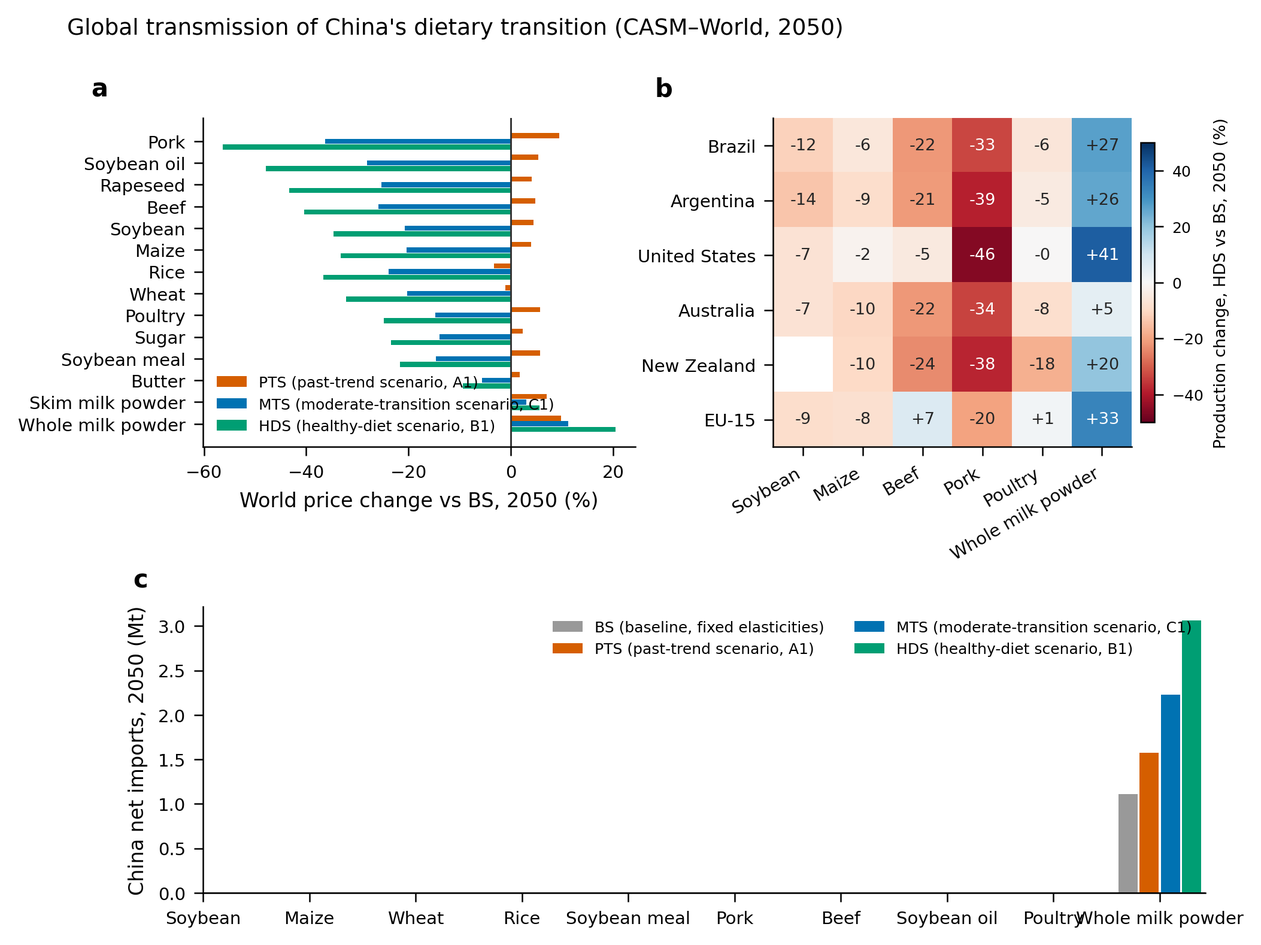
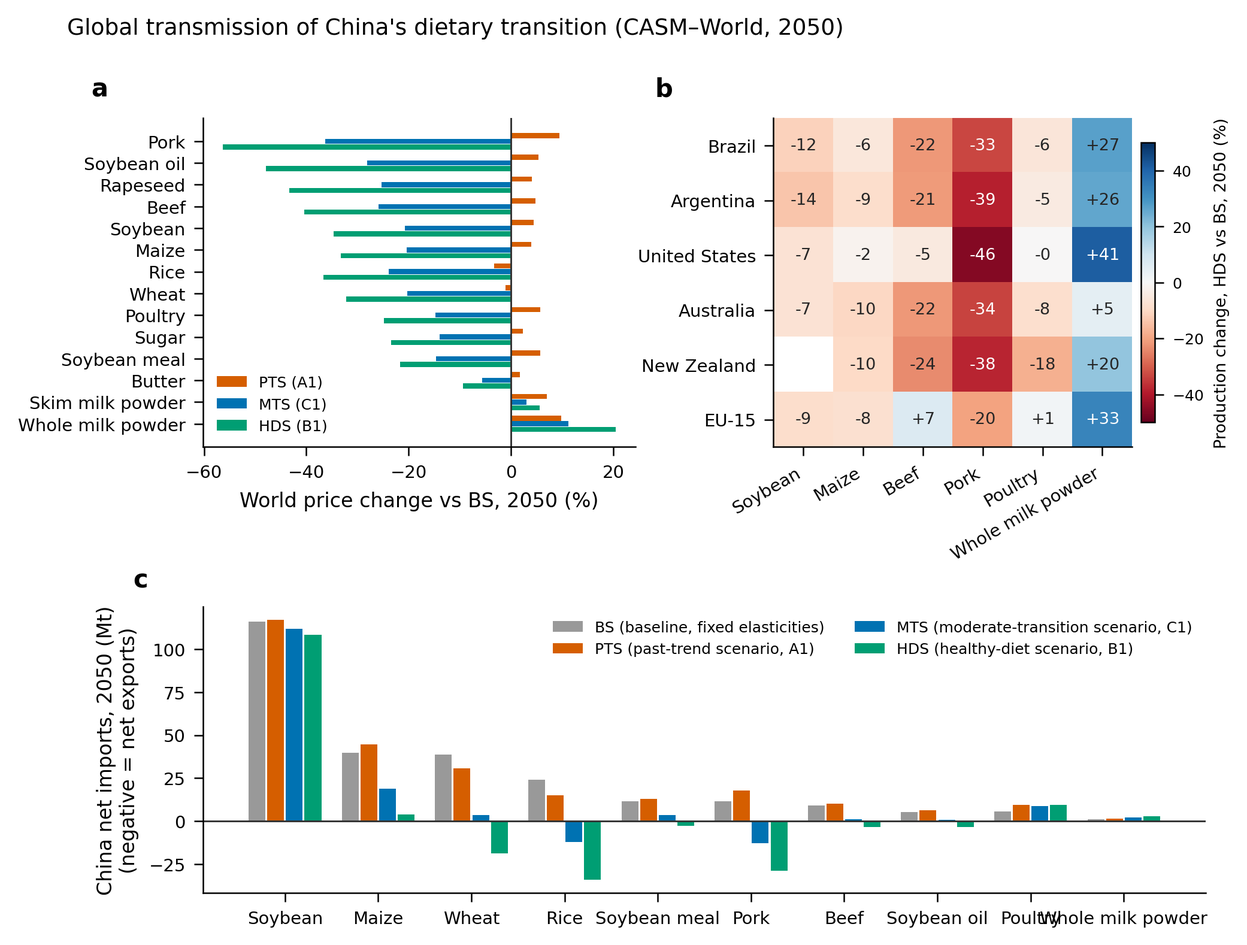
Auto-sync food_demand_2050: 2026-07-07T13:10:02+08:00

diff --git a/food_demand_2050/figures/make_figures.py b/food_demand_2050/figures/make_figures.py
@@ -295,7 +295,8 @@ def fig3():
     h = 0.26
     for k, g in enumerate(["PTS", "MTS", "HDS"]):
         pct = (prf.loc[order, g] / prf.loc[order, "BS"] - 1) * 100
-        ax.barh(ypos + (1 - k) * h, pct.values, h * 0.9, color=CS[g], label=LONG[g])
+        ax.barh(ypos + (1 - k) * h, pct.values, h * 0.9, color=CS[g],
+                label=f"{g} ({dict(PTS='A1', MTS='C1', HDS='B1')[g]})")
     ax.axvline(0, color="0.2", lw=0.7)
     ax.set_yticks(ypos)
     ax.set_yticklabels([WC_EN[c] for c in order])
@@ -347,15 +348,19 @@ def fig3():
     x = np.arange(len(comms))
     w = 0.2
     for k, g in enumerate(["BS", "PTS", "MTS", "HDS"]):
-        v = (ni[(g, "IMP")] - ni[(g, "EXP")]).reindex(comms)
+        imp = ni[(g, "IMP")] if (g, "IMP") in ni else 0.0
+        exp = ni[(g, "EXP")] if (g, "EXP") in ni else 0.0
+        v = (pd.Series(imp, index=ni.index).fillna(0)
+             - pd.Series(exp, index=ni.index).fillna(0)).reindex(comms)
         ax.bar(x + (k - 1.5) * w, v.values, w * 0.9, color=CS[g], label=LONG[g])
     ax.axhline(0, color="0.2", lw=0.7)
     ax.set_xticks(x)
-    ax.set_xticklabels([WC_EN[c] for c in comms])
-    ax.set_ylabel("China net imports, 2050 (Mt)")
+    ax.set_xticklabels([WC_EN[c].replace("Whole milk powder", "Whole milk\npowder")
+                        for c in comms])
+    ax.set_ylabel("China net imports, 2050 (Mt)\n(negative = net exports)")
     ax.legend(frameon=False, ncol=2, loc="upper right", fontsize=6)
-    ax.annotate("China exits world pork-import market\n(net-export pressure under HDS)",
-                xy=(5.3, -25), fontsize=6, color="0.3")
+    ax.annotate("China exits the world pork-import market\n(net-export pressure under HDS)",
+                xy=(4.7, -50), fontsize=6, color="0.3")
     panel_label(ax, "c", dx=-0.055)
 
     fig.suptitle("Global transmission of China's dietary transition (CASM–World, 2050)",
@@ -367,8 +372,9 @@ def fig3():
 # Fig 4 — global net environmental effect + MTS dividend curve
 # =====================================================================
 def fig4():
-    fig = plt.figure(figsize=(7.2, 3.1))
-    gs = fig.add_gridspec(1, 5, width_ratios=[1, 1, 1, 1, 2.3], wspace=0.75)
+    fig = plt.figure(figsize=(7.5, 3.4))
+    gs = fig.add_gridspec(1, 5, width_ratios=[1, 1, 1, 1, 2.3], wspace=0.75,
+                          left=0.07, right=0.99, top=0.80, bottom=0.20)
 
     inds = [("co2_faostat", "Carbon", "Mt CO2e"),
             ("water_blue", "Blue water", "km$^3$"),
@@ -391,7 +397,7 @@ def fig4():
         ax.set_title(f"{lab}\n({unit})", fontsize=7)
         if j == 0:
             ax.set_ylabel("Change vs BS, 2050")
-            panel_label(ax, "a", dx=-0.45)
+            panel_label(ax, "a", dx=-0.62, dy=1.14)
     fig.legend(handles=[Patch(color="0.35", label="within China"),
                         Patch(color="0.35", alpha=0.45, label="outside China")],
                frameon=False, loc="lower center", ncol=2,
@@ -421,13 +427,13 @@ def fig4():
     ax.set_xlabel("Transition depth, PTS → HDS (%)")
     ax.set_ylabel("Share of HDS dividend realised (%)")
     ax.set_ylim(0, 102)
-    ax.legend(frameon=False, fontsize=5.6, loc="lower right", handlelength=1.4)
+    ax.legend(frameon=False, fontsize=5.4, loc="upper left", handlelength=1.2,
+              borderaxespad=0.1, labelspacing=0.35)
     ax.set_title("Half the transition, ~60–70% of the dividend", fontsize=7.5)
-    panel_label(ax, "b", dx=-0.18)
+    panel_label(ax, "b", dx=-0.14, dy=1.14)
 
     fig.suptitle("Global net environmental effect of China's dietary transition, 2050",
-                 x=0.02, ha="left", fontsize=9)
-    fig.tight_layout(rect=(0, 0.03, 1, 0.94))
+                 x=0.02, y=0.985, ha="left", fontsize=9)
     save(fig, "fig4_global_net_effect")
 
 

diff --git a/food_demand_2050/manuscript/manuscript_v2.md b/food_demand_2050/manuscript/manuscript_v2.md
@@ -1,0 +1,71 @@
+# China's dietary transition to 2050 reshapes global agricultural markets and environmental footprints
+
+**Shengnan Huang¹, Xinru Han¹\***
+
+¹ Institute of Agricultural Economics and Development, Chinese Academy of Agricultural Sciences, Beijing 100081, China
+
+\* Corresponding author: hanxinru@caas.cn
+
+*Manuscript prepared for submission to Nature Food (Analysis). Main text ≈ 4,300 words; Methods ≈ 3,100 words; 4 main figures, 1 main table, 4 Extended Data figures; Supplementary Information attached.*
+
+---
+
+## Abstract
+
+What 1.4 billion Chinese consumers eat by 2050 will be decided within China, but its consequences will not stay there. Coupling a recursive-dynamic model of China's agricultural sector with a multi-region world agricultural market model, we quantify how three dietary pathways—preference-driven upgrading, convergence to a composite healthy-diet benchmark, and a moderate half-way transition—propagate through domestic nutrition, multi-dimensional environmental footprints and world markets. A healthy-diet transition cuts world pork prices by 56% and soybean prices by 35%, contracts Brazilian and Argentine soybean production by 12–14%, and releases 21.7 Mha of harvested cropland outside China, while world milk-powder prices rise 20% against the trend. Globally, it lowers agricultural emissions by 0.50 Gt CO₂e (−9.3%), with 77–96% of carbon, water, nitrogen and land benefits accruing outside China. A moderate transition secures 55–65% of these dividends at half the dietary adjustment, making gradual, policy-guided dietary change a globally consequential mitigation lever.
+
+---
+
+## Main
+
+China's food system is undergoing a profound dietary transition. Rising incomes, urbanisation and population ageing have shifted consumption away from grain-centred diets towards more animal-source foods, edible oils, fruit and aquatic products¹⁻³. Because fat carries more than twice the energy per gram of carbohydrate, this structural shift has raised the fat share of dietary energy even as total energy intake plateaued, and it has moved China's food-security challenge from calorie adequacy towards diet quality, non-communicable disease risk and environmental pressure⁴⁻⁷. Food security in China can therefore no longer be assessed through staple-grain sufficiency alone; it requires a food-systems lens that connects demand, nutrition, resources, greenhouse-gas (GHG) emissions and governance⁸,⁹.
+
+A rich literature has established that dietary change is central to keeping food systems within environmental limits¹⁰⁻¹⁴, and China-focused work has shown that healthier Chinese diets can—but do not automatically—deliver environmental co-benefits¹⁵⁻¹⁷, that no observed Chinese dietary pattern simultaneously satisfies nutrition, environment and cost objectives¹⁸, and that bundled food-system measures generate larger co-benefits than isolated interventions¹⁹,²⁰. Yet three gaps remain. First, almost all assessments treat China's dietary future as a domestic question, comparing national diets against national resource and emission accounts. This misses the defining feature of China's food economy: it is the world's largest importer of soybeans, meat and dairy, so Chinese demand shifts are transmitted through world markets to land use and emissions in Brazil, the Americas, Oceania and beyond—a telecoupling channel²¹,²² that existing diet-scenario studies for China have not quantified with an explicit multi-region market model. Second, environmental assessments typically use a single indicator (usually GHG) with domestic production coefficients, creating an unacknowledged inconsistency when the underlying model trades internationally: emissions "saved" in China may simply be displaced abroad, or conversely, savings abroad may go uncounted. Third, the literature compares current diets with recommended endpoints while paying little attention to the transition path between them, even though real-world dietary change is gradual, path-dependent and constrained by preferences, affordability and supply²³—and even though ageing and population decline are reshaping how many "standard consumers" China must feed²⁴,²⁵.
+
+Here we address all three gaps in a single framework. We link the China Agricultural Sector Model (CASM v2.2.7), a recursive-dynamic partial-equilibrium model of China's agricultural sector with four household groups and out-of-home consumption, to CASM-World, a 13-region, 31-commodity world agricultural market model with PEATSim-type structure, and to an internationally sourced, fully cited coefficient library for carbon, blue water, reactive nitrogen and land. Against a baseline (BS) of fixed food preferences, we compare three dietary pathways to 2050: a preference-driven transition (PTS) in which income elasticities evolve with per-capita GDP following cross-country regularities²⁶,²⁷; a healthy-diet scenario (HDS) converging to a composite benchmark built from five dietary-guideline systems, including the Dietary Guidelines for Chinese Residents (2022) and the EAT-Lancet reference diet¹⁴; and a moderate transition scenario (MTS) whose per-capita demand growth is the arithmetic mean of PTS and HDS. Each pathway is crossed with six demographic variants (population high/medium/low, urbanisation high/low, and an ageing adjustment using adult-equivalent consumers), yielding 19 scenarios (Table 1). All model code, scenario inputs, coefficients and validation reports are open source.
+
+Three results structure the paper. First, dietary pathway—not urbanisation, and more than population size—dominates China's food demand and nutrition outlook, and a healthy-diet transition rebalances the macronutrient structure that preference-driven upgrading further distorts. Second, at fixed technology the diet-composition effect on China's own farm-gate footprint is modest (±10%), which is precisely why single-country accounting misleads: the large effects occur abroad. A Chinese healthy-diet transition removes China from world pork and feed-grain import markets, cuts world pork prices by 56% and soybean prices by 35%, shrinks soybean production in Brazil and Argentina by 12–14%, and releases 21.7 Mha of harvested cropland outside China—while dairy, the one food group that expands towards guideline levels, pushes world whole-milk-powder prices up 20%. Third, accounting for trade-induced production adjustment worldwide, the global net effect of China's healthy-diet transition is −0.50 Gt CO₂e (−9.3% of world agricultural farm-gate emissions), −89 km³ blue water, −10.4 Mt reactive nitrogen and −556 Mha of land occupation, with 77–96% of every benefit accruing outside China; a moderate transition locks in 55–65% of these dividends at half the dietary adjustment. China's dietary transition is thus not a domestic nutrition policy question but a global resource reallocation—and a demand-side mitigation lever of gigatonne scale.
+
+## Results
+
+### Three dietary futures restructure China's food demand and nutrition
+
+Figure 1 summarises the modelling framework and the three dietary pathways against the composite healthy-diet benchmark band. The pathways diverge sharply in what China eats, far more than any demographic variant changes how much (Fig. 1; Supplementary Tables 2–4). Under the baseline, per-capita rice and wheat consumption decline to 96.6 kg and 55.8 kg by 2050 while every animal-source food rises; under PTS (scenario A1), dynamic income elasticities amplify this upgrading, lifting pork to 42.4 kg, dairy to 57.5 kg and edible oils to 25.6 kg. HDS (B1) inverts the animal-food mix rather than merely shrinking it: pork falls to 11.0 kg (−71% versus BS 2050) and beef to 2.5 kg, while dairy more than doubles to 102.1 kg, aquatic products rise to 60.4 kg (+110%) and poultry to 32.6 kg. MTS (C1) tracks the midpoint—pork 21.8 kg, dairy 76.7 kg, aquatic products 43.4 kg. By contrast, high versus low urbanisation moves most per-capita items by less than ~2.5%, and population variants rescale aggregate demand by roughly ±7% without changing its composition; the ageing adjustment (adult-equivalent population of 1.270 billion in 2050 versus 1.259 billion head-count) lowers aggregate demand across all food groups by 3–7% but never reorders the pathways (Supplementary Tables 5–7).
+
+The nutrition consequences are first-order (Fig. 2). Dietary energy under BS rises from 2,958 kcal per capita per day in 2024 to 3,036 kcal in 2050, and PTS pushes it to 3,091 kcal with the fat share of energy reaching 41.7% (BS 2050: 39.7%)—far above the WHO 30% ceiling and continuing the historical trajectory in which fat displaced carbohydrate even as total energy stabilised³,⁴. HDS lowers energy intake to 2,258 kcal and restores macronutrient balance (fat 33.0%, carbohydrate 48.1%, protein 17.4% of energy), while keeping protein intake high (98.1 g per day). MTS reaches 2,572 kcal with a 36.7% fat share. Benchmarked against dietary guidelines, red-meat intake in 2050 is 143 g per day under BS and 157 g under PTS—roughly 3–4 times the healthy range—versus 80 g under MTS and 40 g under HDS, which enters the guideline band; dairy, conversely, remains below the Chinese guideline floor of 300 g per day even under HDS (280 g), identifying dairy as the binding "guideline gap" of China's dietary transition (Supplementary Table 8). Market-driven upgrading and health-oriented transition are therefore not points on one continuum but qualitatively different futures: the former deepens the fat-heavy structure, the latter simultaneously moderates energy, rebalances macronutrients and re-sorts protein sources from red meat towards dairy, aquatic foods and poultry.
+
+### Multi-dimensional footprints in China: composition effects are real but modest
+
+We next translate each scenario into four environmental footprints—GHG, blue water, reactive nitrogen and land—using a fully cited international coefficient library, with FAOSTAT farm-gate emission intensities as the main carbon accounting and Poore & Nemecek cradle-to-retail life-cycle coefficients as an upper-bound sensitivity (boundaries are never blended; Methods). Holding emission and resource coefficients fixed at 2023 values to isolate the pure diet-composition-plus-trade signal, China's 2050 farm-gate consumption carbon footprint is 652 Mt CO₂e under BS, and the 19-scenario spread runs from −7.4% (MTS with low population) to +10.0% (PTS with high urbanisation); blue water spans −1.7% to +3.4% around 338 km³, reactive nitrogen −1.2% to +3.9% around 46.2 Mt N, and diet-related land occupation −9.9% to +10.9% around 1,206 Mha (Fig. 2; Supplementary Table 9). Three features stand out. First, the C group (MTS) lowers every footprint simultaneously—the only pathway family with across-the-board co-benefits—whereas HDS's large dairy and aquatic expansion partly offsets its red-meat cuts in the water and nitrogen dimensions. Second, when scenario-specific supply-side technology improvement is included, as in conventional single-country accounting, China's total emissions fall to 451 Mt under HDS (−31% versus BS) and 502 Mt under MTS; comparing the two accountings shows that roughly two-thirds of that headline reduction is technology, not diet, a decomposition that single-metric studies conflate. Third, under the cradle-to-retail life-cycle boundary the same diets imply a consumer footprint an order of magnitude larger (BS: 7,607 Mt CO₂e), underscoring that most diet-driven emissions embodied in Chinese consumption arise beyond the farm gate and beyond China's borders (Extended Data Fig. 2).
+
+This is the pivotal observation: with production technology fixed, diet composition moves China's own farm-gate footprint by only ±10%, because domestic production adjusts sluggishly and the demand shock exits through trade. The question "what does China's dietary transition do to the environment?" therefore cannot be answered inside China.
+
+### Global transmission: China's diet shift repriced and re-mapped world agriculture
+
+Feeding the three dietary pathways into CASM-World reveals transmission at a scale rarely associated with a single country's consumer behaviour (Fig. 3). Under HDS in 2050, relative to BS, China's food pork demand is 53 Mt lower; feed maize demand falls by 41 Mt, feed soymeal by 22 Mt and soybean crushing by 10 Mt. China's net imports fall by 40.6 Mt for pork (from 11.7 Mt net imports to net-export pressure), 35.9 Mt for maize, 7.4 Mt for soybeans and 14.3 Mt for soymeal, and China switches from the world's largest rice and wheat importer to a net exporter. World prices respond accordingly: pork −56%, soybean oil −48%, beef −40%, soybeans −35%, maize −33%, wheat −32%, rice −37% relative to BS 2050. Under PTS the signs reverse—pork +9%, soymeal +6%, maize +4%—so the *choice* of pathway spans a two-regime world food-price future.
+
+The one systematic exception is dairy. Because dairy is the only major food group that expands towards guideline levels under HDS, and China's dairy self-sufficiency falls from 0.75 (BS) to 0.37 (HDS), world whole-milk-powder prices rise 20% (skim-milk powder +6%) against an otherwise deflationary landscape. Export dividends flow mainly to the European Union and the United States (whole-milk-powder production +33% and +41%), with New Zealand's milk-powder exports up 20% (2.43 to 2.91 Mt) while Australasian butter and cheese lines are crowded out as limited raw milk is reallocated to the booming powder segment.
+
+Supply-side geography reorganises around these prices. Brazilian soybean production contracts 11.7% (186.3 to 164.5 Mt) and Argentine production 14.0%; US soybean output falls 7.1% and US pork production—the region most exposed to Chinese import demand—falls 46%. Beef output in Brazil, Argentina and Australia declines 21–22%, while EU beef production rises 6.8% as collapsing world feed prices lower its costs. Summing across regions, harvested cropland outside China falls by 21.7 Mha under HDS (−2.3%)—an area comparable to the entire arable land of the United Kingdom—concentrated in the rest-of-world aggregate (−9.1 Mha), India (−4.3 Mha) and South America (−3.6 Mha); PTS instead expands ex-China cropland by 0.5 Mha (Fig. 3). China's dietary choices thus operate as a global land-sparing (or land-claiming) policy administered through prices, with the supply-side carbon and biodiversity stakes located almost entirely on other continents²¹,²².
+
+### The global net effect: a China policy with a predominantly ex-China footprint
+
+Applying region-resolved footprint coefficients to the trade-adjusted production of all 13 world regions yields an internally consistent global net-effect account—the answer to the trade–emissions inconsistency that afflicts single-country diet studies (Fig. 4). Against a 2050 world farm-gate baseline of 5.31 Gt CO₂e, 1,244 km³ blue water, 144 Mt reactive nitrogen and 1,047 Mha harvested cropland, China's healthy-diet transition delivers global net changes of −495 Mt CO₂e (−9.3%), −89 km³ blue water (−7.1%), −10.4 Mt reactive nitrogen (−7.2%), −556 Mha of land occupation including pasture (−8.8%) and −22.7 Mha of harvested cropland (−2.2%). The distribution is the headline: 91% of the carbon saving, 77% of the water and nitrogen savings, 88% of the land-occupation release and 96% of the cropland release occur *outside* China. China's own farm-gate account improves only modestly (−45 Mt CO₂e) precisely because the demand reduction is transmitted abroad through trade; a domestic-only account would miss nine-tenths of the climate benefit—or, under PTS, miss a global *increase* of +64 Mt CO₂e and +82 Mha of land occupation that continued dietary upgrading imposes on the rest of the world.
+
+These magnitudes place China's dietary transition among the largest single demand-side mitigation levers available anywhere: 0.50 Gt CO₂e per year is comparable to the total annual emissions of a G7 economy's agriculture sector several times over, achieved without any assumed technology change, land-use-change credit or carbon pricing. Per capita, the healthy-diet pathway is also the only one that brings China's farm-gate food emissions below an equal-per-capita share of the EAT-Lancet food-system carbon boundary (Supplementary Table 10).
+
+### A moderate transition secures most of the dividend at half the adjustment
+
+Full convergence to the healthy-diet benchmark by 2050 demands historically unprecedented behavioural change—pork consumption falling by two-thirds, dairy more than doubling. The moderate transition scenario, whose per-capita demand growth is by construction the arithmetic mean of PTS and HDS (a 50% transition depth), tests how much of the dividend gradualism forfeits. The answer: strikingly little (Fig. 4). MTS attains 62% of the PTS-to-HDS reduction in dietary energy, 58% of the fat-share correction and 66% of the red-meat reduction; 70% of the world pork-price transmission and 65% of the soybean-price transmission; 65% of the global net carbon saving (−299 Mt CO₂e, −5.6%) and 58% of the ex-China cropland release (−12.4 Mha). Across 21 health, market and environmental indicators the median realisation is 65%, and most indicators fall in the 55–65% band (Supplementary Table 11). Transition benefits are thus concave in transition depth: the first half of the journey buys well over half the health and global environmental returns, while avoiding the disruptive tail—the pork-sector collapse, the 46% contraction of US pork production, the full dairy import surge—implied by complete convergence. For policy, this converts the healthy-diet benchmark from an all-or-nothing target into a direction with high early returns.
+
+## Discussion
+
+This study reframes China's dietary transition from a domestic nutrition question into a global resource-reallocation problem, and three implications follow.
+
+First, dietary transition pathways should be evaluated with trade-consistent, multi-region accounting. Our fixed-coefficient decomposition shows that diet composition alone shifts China's farm-gate footprint by only about ±10%, while the same demand shifts move world prices by tens of percent and relocate 12–14% of South American soybean production. Studies that apply domestic emission factors to a trading economy either overstate domestic benefits (by crediting China with reductions that in fact occur through technology assumptions) or understate global ones (by ignoring the 77–96% of savings that accrue abroad). The global net-effect framework used here—domestic footprint change plus trade-induced production adjustment in all partner regions, under one coefficient boundary—resolves this inconsistency and, we suggest, should become standard practice for national diet-scenario studies, complementing global integrated assessments²⁸ with country-led market detail. The telecoupling is not incidental: it is the main event²¹,²².
+
+Second, the direction of transition matters more than its existence, and dairy is the strategic exception that proves it. Preference-driven upgrading (PTS) is itself a transition—diets diversify, staples decline—yet it raises the fat share of energy to 42%, keeps red meat at 3–4 times healthy levels, tightens world meat and feed markets, and adds 64 Mt CO₂e to global emissions. Health-oriented transition reverses all of these—except for dairy, where China's guideline gap (280 g per day achieved versus a 300 g floor even under full convergence) makes China structurally import-dependent (self-sufficiency 0.37 under HDS) and lifts world milk-powder prices 20% against the deflationary trend. Anticipating this counter-cyclical dairy channel matters for exporters (the EU and US, not Australasia, capture most of the powder dividend in our simulations) and for China's own nutrition policy, which cannot deliver its dairy recommendation without either a much larger domestic dairy sector or deliberately secured import channels. More broadly, the aquatic-product expansion under HDS (60 kg per capita) presses on a supply channel—aquaculture feed—that our world model does not yet cover, flagging fish–feed linkages as the next transmission channel to quantify.
+
+Third, gradualism is cheap. The concavity of transition returns—55–65% of dividends at 50% depth, median 65% across 21 indicators—aligns the political economy of dietary change with its environmental economics. Dietary habits are culturally embedded and policy levers are soft²³,²⁹; a benchmark that demands halving pork consumption within a generation invites non-compliance, whereas a moderate pathway framed as "direction plus pace" captures most benefits while leaving supply chains, farm livelihoods and trade partners time to adjust. This finding extends the bundled-measures logic of recent China food-system assessments¹⁹,²⁰ to the temporal dimension, and it speaks to the observation that national food-system transformation pathways are typically strongest on production and weakest on consumption²⁹: a moderate demand-side pathway is the component such national strategies most tractably add. The distributional corollary is that China's dietary policy is de facto foreign agricultural policy—Brazilian soy growers, US hog producers and New Zealand dairy exporters hold multi-billion-dollar exposures to the Chinese Dietary Guidelines—arguing for embedding dietary-transition scenarios in agricultural trade diplomacy and for anticipatory adjustment support in exporter regions.
+
+Limitations bound these conclusions. CASM covers primary and first-stage processed commodities: highly processed foods, sweets and sugar-sweetened beverages—rising with income and urbanisation—are represented only through the sugar and oil channels, so our nutrition results likely understate the unhealthy tail of PTS; the world model omits sheep meat, eggs, aquatic products and horticulture, so the HDS aquatic channel's global effects are uncounted (making our global estimates conservative for water and feed markets). Footprint coefficients are held at 2023 levels to isolate the diet signal—supply-side technical change would scale, but not redirect, the results—and the Mekonnen–Hoekstra water coefficients (1996–2005) predate two decades of Chinese irrigation-efficiency gains, so China's blue-water level should be read as an upper bound. Behavioural change is imposed through preference shifters rather than derived from a policy module, and results are national averages without income-group or regional disaggregation. None of these caveats touches the central asymmetry: the environmental consequences of what China eats in 2050 will materialise mostly outside China, and a moderate, policy-guided transition captures most of what full convergence promises.

diff --git a/paper8_hot/logs/run_log.md b/paper8_hot/logs/run_log.md
@@ -1,2 +1,4 @@
 12:52:12 03 lookups done: 8 lockdown rows; 21 categories; 21 nutrient rows 
 12:54:29 04: reading Data_merged.csv ... 
+12:56:49 04: reading Data_merged.csv ... 
+12:59:56 04: reading Data_merged.csv ... 
